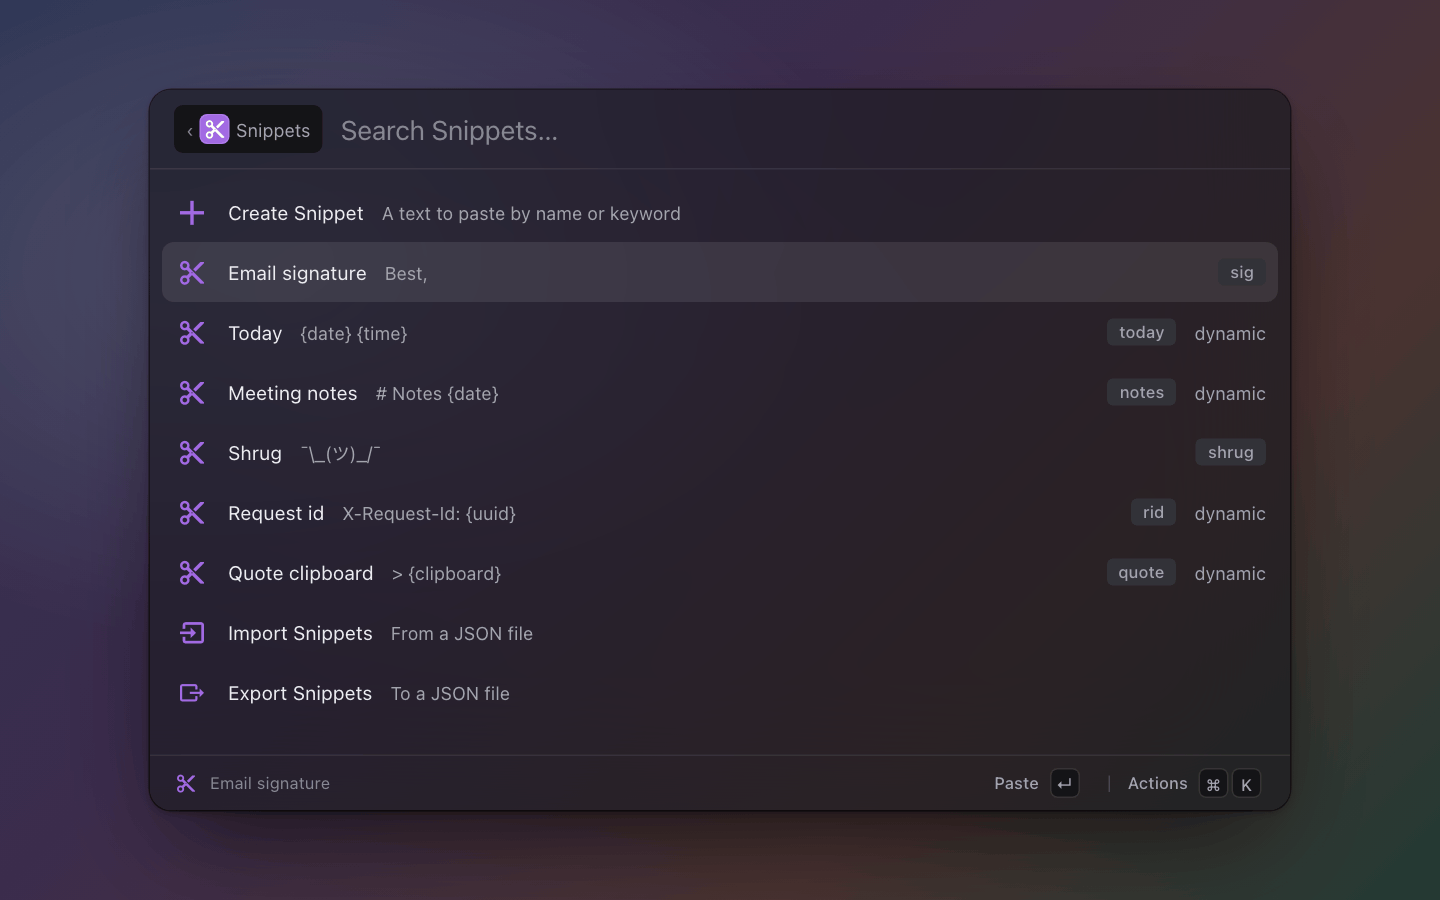
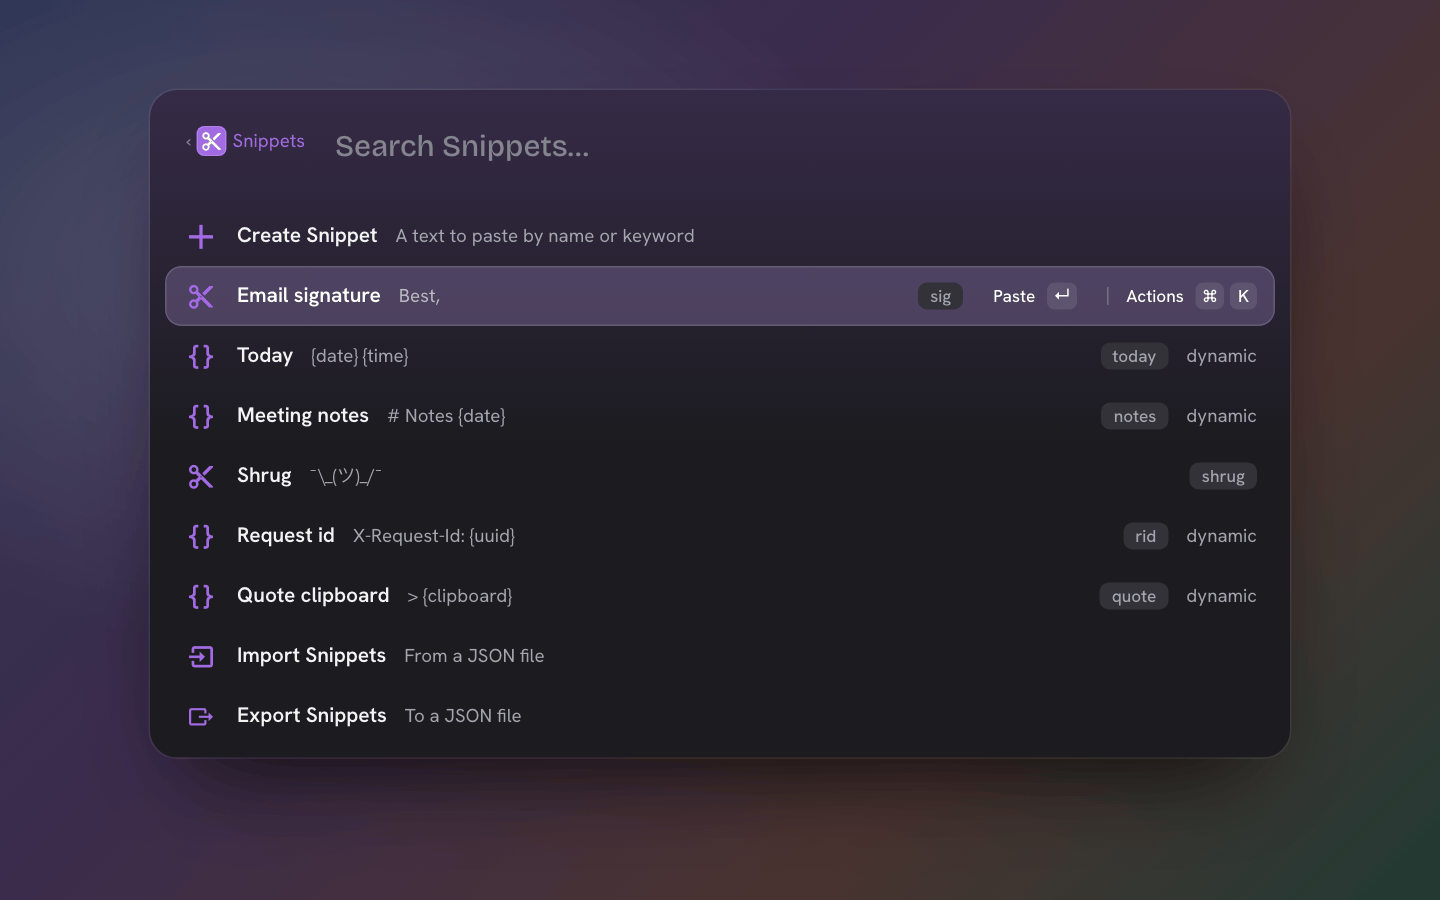
snippets: a snippet with placeholders wears braces; details are the name over the text, the keyword and dynamic as chips

diff --git a/extensions/snippets/index.ts b/extensions/snippets/index.ts
@@ -8,8 +8,9 @@
 import { clipboard, core, errorMessage, home, now, selection, toast, type Action, type Ctx, type Effect, type Extension, type Form, type FormValues, type Item, type LinkParams } from "@zcag/pal";
 import { asSnippets, badKeyword, expand, fromJson, hasPlaceholders, preview, type Snippet } from "./placeholders.ts";
 
-/** Material Design glyphs in the bundled Nerd Font: scissors for a snippet, plus, import, export for the command rows. */
+/** Material Design glyphs in the bundled Nerd Font: scissors for a snippet, braces for one with placeholders, plus, import, export for the command rows. */
 const ICON = "\u{f0190}";
+const ICON_DYNAMIC = "\u{f0169}";
 const ICON_CREATE = "\u{f0415}";
 const ICON_IMPORT = "\u{f02fa}";
 const ICON_EXPORT = "\u{f0207}";
@@ -34,20 +35,20 @@ const snippetText = async (name: string) => { const n = name.trim().toLowerCase(
 /** The placeholders' sources: the clipboard, the app in front's selected text for `{selection}` (the clipboard when nothing is selected), the Finder selection for `{files}`, the other snippets. */
 const SOURCES = { clipboard: clipboardText, selection: selection.text, files: selection.files, now: () => new Date(now()), snippet: snippetText };
 
+/** A snippet's row: its keyword as a tag, one with placeholders marked dynamic (and its icon braces); the detail is the name over the text. */
 function row(s: Snippet): Item {
+  const dynamic = hasPlaceholders(s.text);
   return {
     id: s.id,
     name: s.name,
     subtitle: preview(s.text),
-    icon: ICON,
+    icon: dynamic ? ICON_DYNAMIC : ICON,
     keywords: s.keyword ? [s.keyword] : undefined,
-    accessories: [...(s.keyword ? [{ tag: s.keyword }] : []), ...(hasPlaceholders(s.text) ? [{ text: "dynamic" }] : [])],
+    accessories: [...(s.keyword ? [{ tag: s.keyword }] : []), ...(dynamic ? [{ text: "dynamic" }] : [])],
     detail: {
-      markdown: `# ${s.name}\n\n\`\`\`\n${s.text}\n\`\`\``,
-      metadata: [
-        ...(s.keyword ? [{ label: "Keyword", value: s.keyword }] : []),
-        { label: "Length", value: `${s.text.length} characters` },
-      ],
+      title: s.name,
+      ...((s.keyword || dynamic) && { chips: [...(s.keyword ? [{ text: `keyword ${s.keyword}` }] : []), ...(dynamic ? [{ text: "dynamic", color: "violet" as const }] : [])] }),
+      markdown: "````\n" + s.text.replace(/````/g, "```\u200b`") + "\n````",
     },
     actions: [PASTE, COPY, EDIT, DELETE],
   };

diff --git a/host/test/extensions/snippets.test.ts b/host/test/extensions/snippets.test.ts
@@ -127,13 +127,17 @@ describe("snippets", () => {
     expect(items[4]).toMatchObject({ name: "Export Snippets", actions: [{ id: "export", title: "Export…" }] });
     expect(items[0]).toMatchObject({ name: "Create Snippet", actions: [{ id: "create", title: "Create snippet" }], icon: "\u{f0415}" });
     expect(items[1]).toMatchObject({ name: "Signature", subtitle: "Best,", keywords: ["sig"], accessories: [{ tag: "sig" }] });
-    expect(items[1].detail!.markdown).toContain("Best,\nCagdas");
+    expect(items[1].detail).toEqual({ title: "Signature", chips: [{ text: "keyword sig" }], markdown: "````\nBest,\nCagdas\n````" });
+    expect(items[1].icon).toBe("\u{f0190}");
     expect(items[1].actions!.map((a) => a.id)).toEqual(["paste", "copy", "edit", "delete"]);
     // Copy and Delete also take marked snippets; the question reads for one or several.
     expect(items[1].actions![3]).toMatchObject({ style: "destructive", multi: true, confirm: "Delete? This cannot be undone." });
     expect(items[1].actions!.filter((a) => a.multi).map((a) => a.id)).toEqual(["copy", "delete"]);
     expect(items[2].keywords).toBeUndefined();
     expect(items[2].accessories).toEqual([{ text: "dynamic" }]);
+    // A snippet with placeholders wears braces, and its detail says dynamic.
+    expect(items[2].icon).toBe("\u{f0169}");
+    expect(items[2].detail!.chips).toEqual([{ text: "dynamic", color: "violet" }]);
   });
 
   test("Enter pastes the text, cmd+c copies it; placeholders filled from the clock and the newest clipboard text", async () => {

diff --git a/extensions/snippets/README.md b/extensions/snippets/README.md
@@ -4,8 +4,8 @@ Short texts by name and keyword, kept in the extension's storage and
 edited in the panel. Enter pastes the text into the app that was in front,
 `cmd+c` copies it instead. The keyword is a row keyword, so typing `sig`
 finds the signature; it shows as a tag, the first line of the text is the
-subtitle, and the whole text is in the detail pane (`cmd+i`) with its
-keyword and length.
+subtitle, and the whole text is in the detail pane (`cmd+i`) under its
+name, the keyword and `dynamic` as chips.
 
 Placeholders in the text are filled in when it is pasted or copied:
 
@@ -30,7 +30,8 @@ applied first (`{date offset=+1d}`, `{date offset=-2w}`, `{time
 offset=+3h}`, `{datetime offset=-90m format=HH:mm}`).
 
 Anything else in braces is left as it is, so a snippet of code keeps its
-braces. A snippet with placeholders carries a `dynamic` accessory. The
+braces. A snippet with placeholders carries a `dynamic` accessory and a
+braces icon. The
 grammar is the SDK's (`expand` in `@zcag/pal`), shared with quicklinks
 (`{selection}` in a url) and obsidian (an appended line).
 
